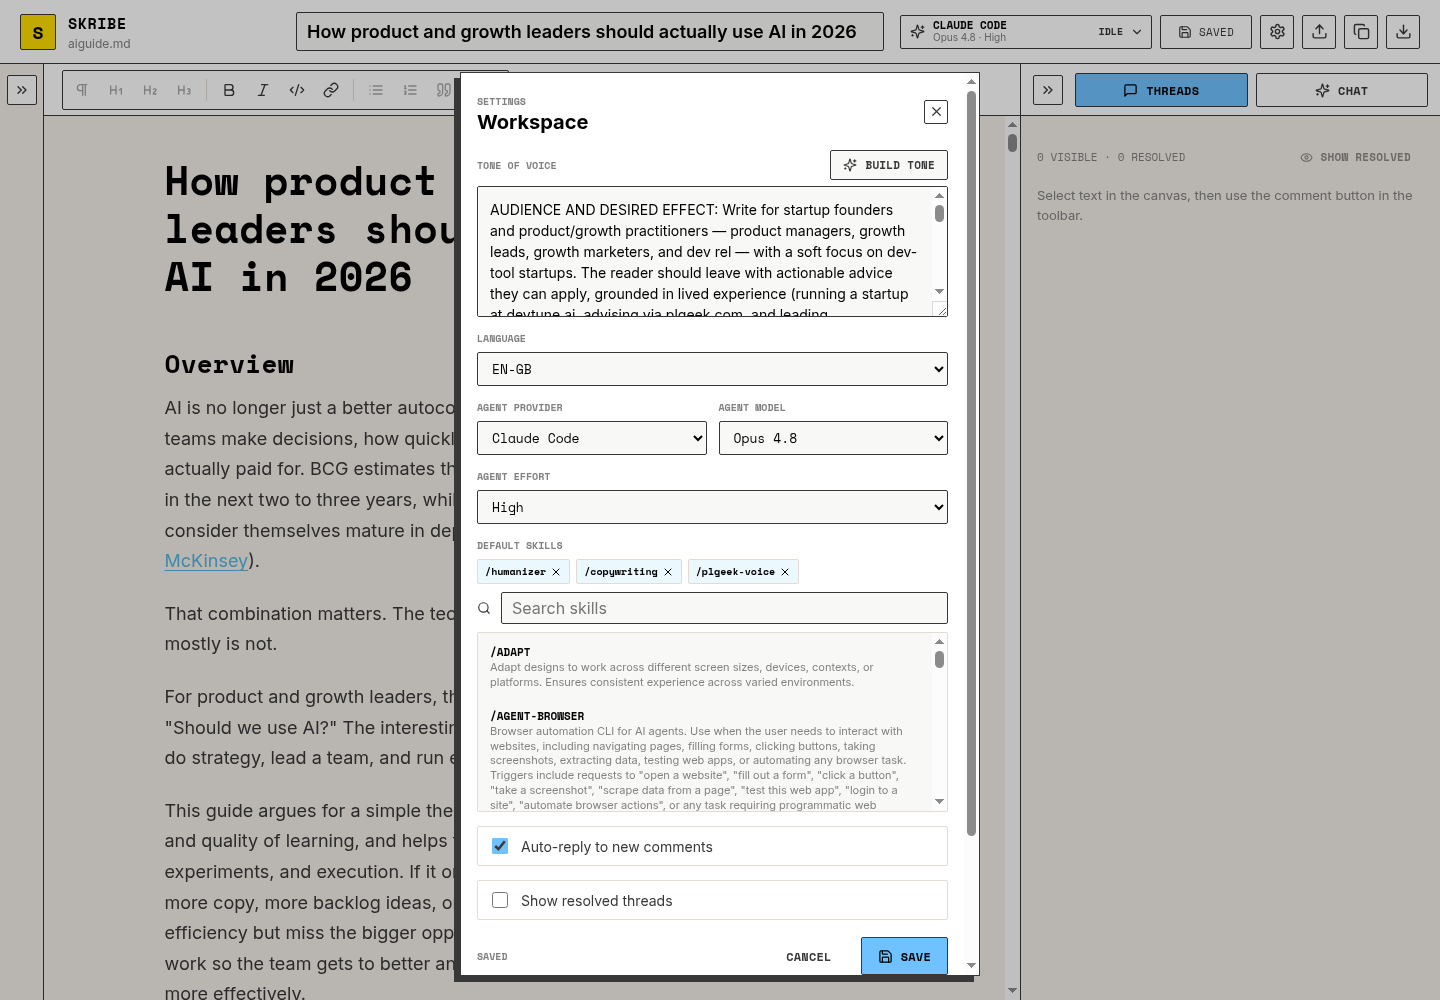
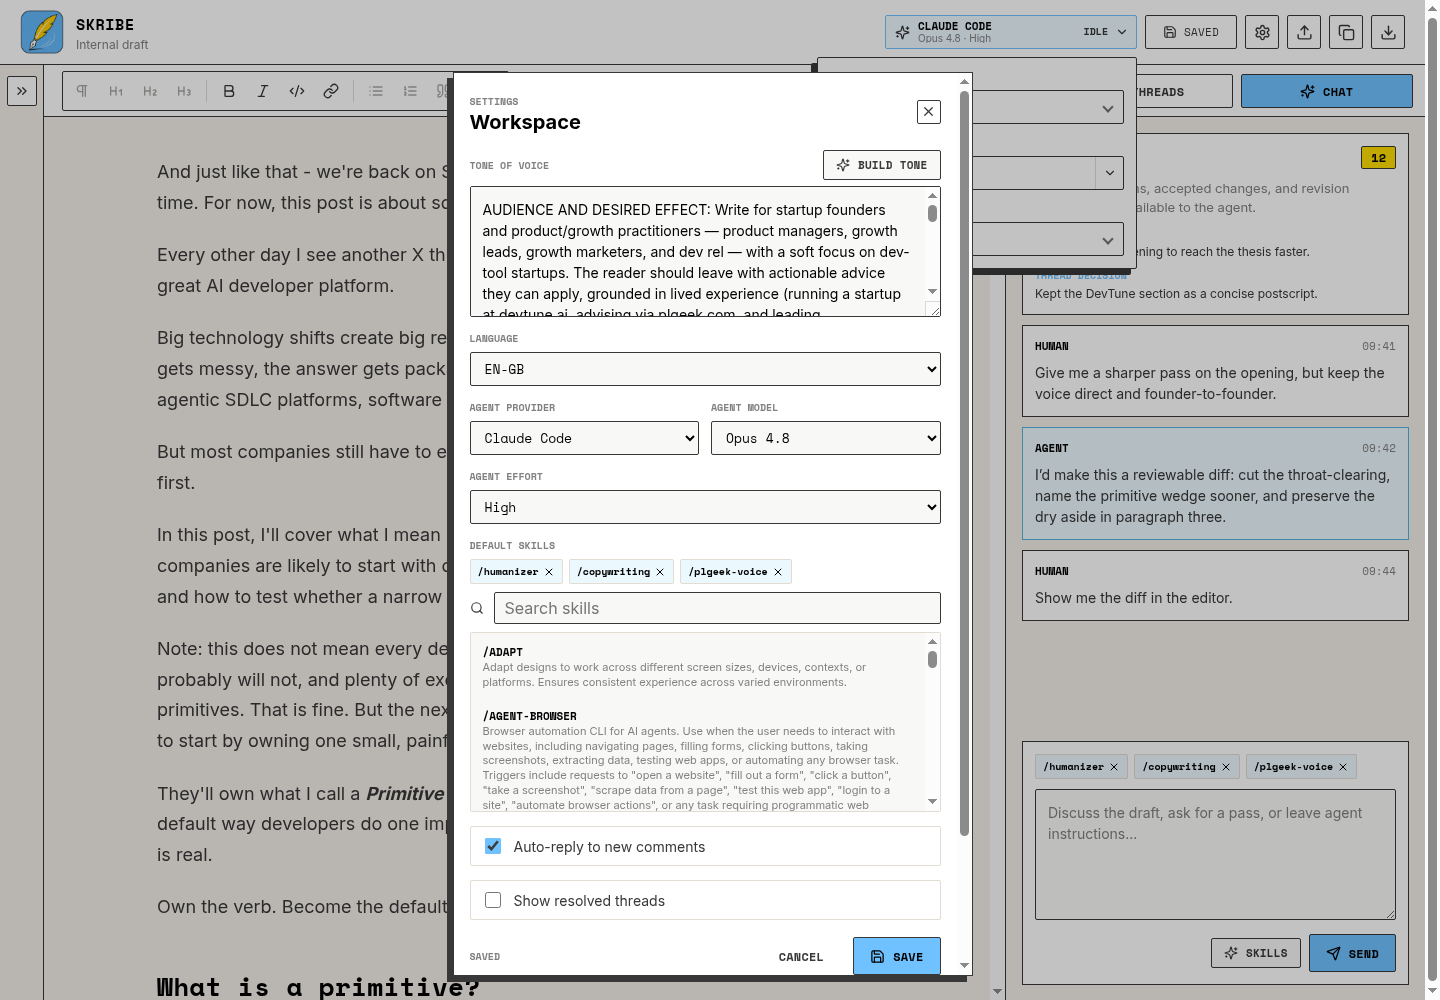
Clean up toolbar and refresh README screenshots

diff --git a/src/styles.css b/src/styles.css
@@ -154,7 +154,7 @@ button {
 
 .topbar {
   display: grid;
-  grid-template-columns: 260px minmax(220px, 1fr) auto;
+  grid-template-columns: minmax(180px, 1fr) auto;
   gap: 16px;
   align-items: center;
   min-height: 64px;
@@ -207,28 +207,6 @@ button {
   color: var(--muted);
   font-size: 12px;
   margin-top: 2px;
-}
-
-.title-input {
-  width: 100%;
-  border: 1px solid transparent;
-  background: transparent;
-  color: var(--text);
-  font-size: 18px;
-  font-weight: 600;
-  padding: 8px 10px;
-  min-width: 0;
-  border-radius: var(--radius);
-}
-
-.title-input:hover {
-  border-color: var(--line);
-}
-
-.title-input:focus {
-  outline: none;
-  border-color: var(--sky-blue);
-  background: var(--smoke-gray);
 }
 
 .topbar-actions {
@@ -1721,7 +1699,6 @@ blockquote {
 
 textarea,
 select,
-input.title-input,
 .skill-search input {
   width: 100%;
   border: 1px solid var(--line-ink);
@@ -3084,7 +3061,7 @@ select:focus,
 
 @media (max-width: 1180px) {
   .topbar {
-    grid-template-columns: minmax(150px, 210px) minmax(180px, 1fr) auto;
+    grid-template-columns: minmax(150px, 1fr) auto;
     gap: 10px;
     padding-inline: 14px;
   }
@@ -3125,11 +3102,6 @@ select:focus,
     gap: 8px 12px;
   }
 
-  .title-input {
-    grid-column: 1 / -1;
-    grid-row: 2;
-  }
-
   .workspace {
     display: flex;
     flex-direction: column;
@@ -3138,8 +3110,8 @@ select:focus,
 
   .center-pane {
     order: 1;
-    min-height: calc(100vh - 116px);
-    min-height: calc(100dvh - 116px);
+    min-height: calc(100vh - 64px);
+    min-height: calc(100dvh - 64px);
     max-height: none;
   }
 
@@ -3216,12 +3188,6 @@ select:focus,
   .brand-mark {
     width: 38px;
     height: 38px;
-  }
-
-  .title-input {
-    grid-row: auto;
-    padding: 7px 8px;
-    font-size: 16px;
   }
 
   .topbar-actions {

diff --git a/src/App.tsx b/src/App.tsx
@@ -3582,17 +3582,6 @@ function App() {
     }
   }
 
-  function updateTitle(title: string) {
-    commit((state) => ({
-      ...state,
-      review: {
-        ...state.review,
-        title,
-        updatedAt: nowIso()
-      }
-    }));
-  }
-
   async function copyText(text: string, label: string) {
     await writeClipboardPayload({ plainText: text }, label);
   }
@@ -3744,15 +3733,6 @@ function App() {
             </span>
           </div>
         </div>
-
-        <input
-          className="title-input"
-          value={documentState.review.title}
-          onChange={(event) => updateTitle(event.target.value)}
-          lang={editorLanguage}
-          spellCheck
-          aria-label="Document title"
-        />
 
         <div className="topbar-actions">
           <div className={`agent-config-shell ${isAgentConfigOpen ? "is-open" : ""}`}>

diff --git a/README.md b/README.md
@@ -45,6 +45,12 @@ Rendered Markdown stays editable, with a compact toolbar and collapsible sidebar
 
 ![Skribe editor](docs/screenshots/editor.png)
 
+### Threads
+
+Anchor comments to highlighted passages, discuss the local edit, and review focused replacement suggestions.
+
+![Skribe threads](docs/screenshots/threads.png)
+
 ### Chat
 
 Use chat for article-level discussion, skill-driven passes, and reviewable document diffs.